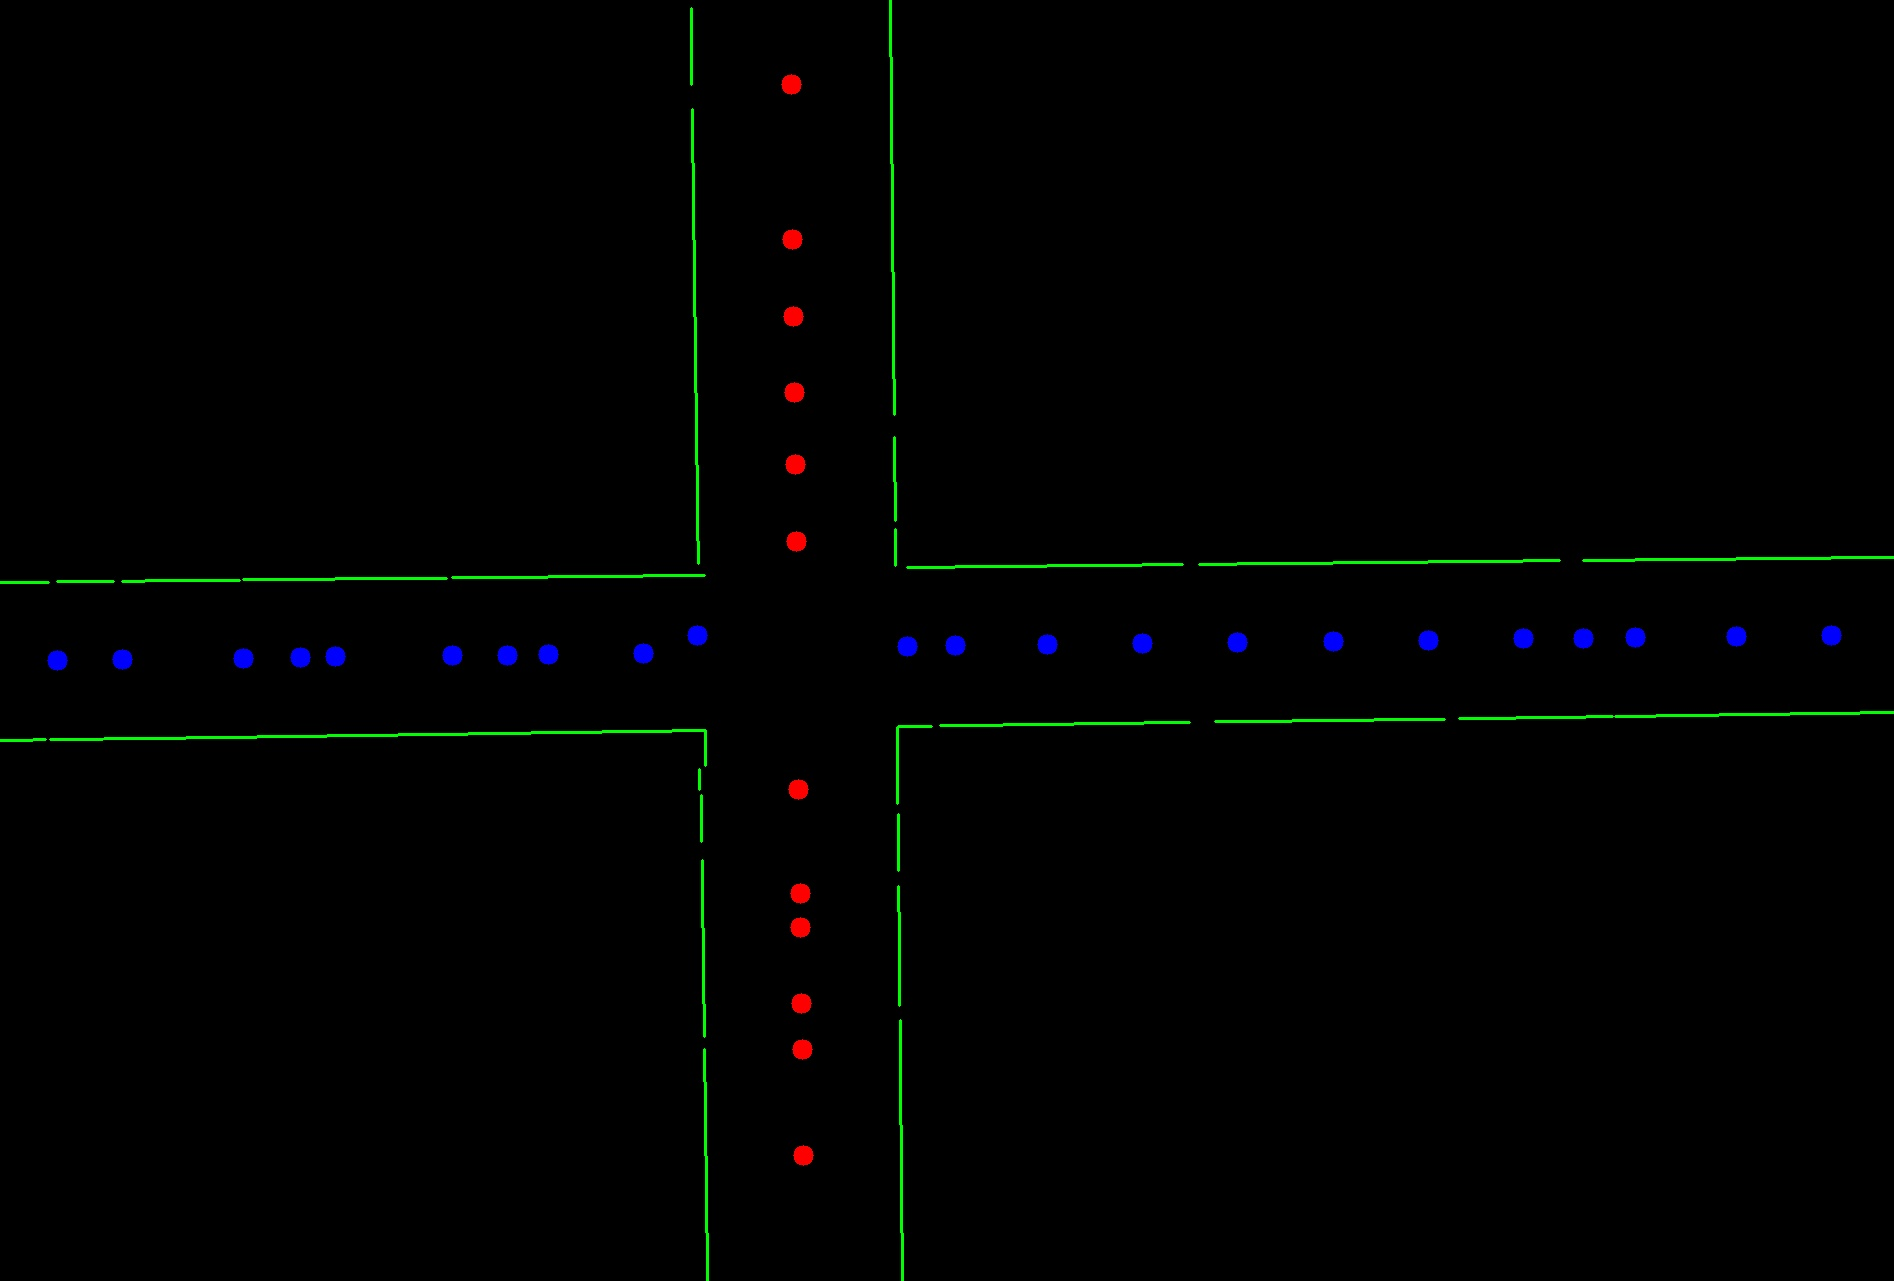
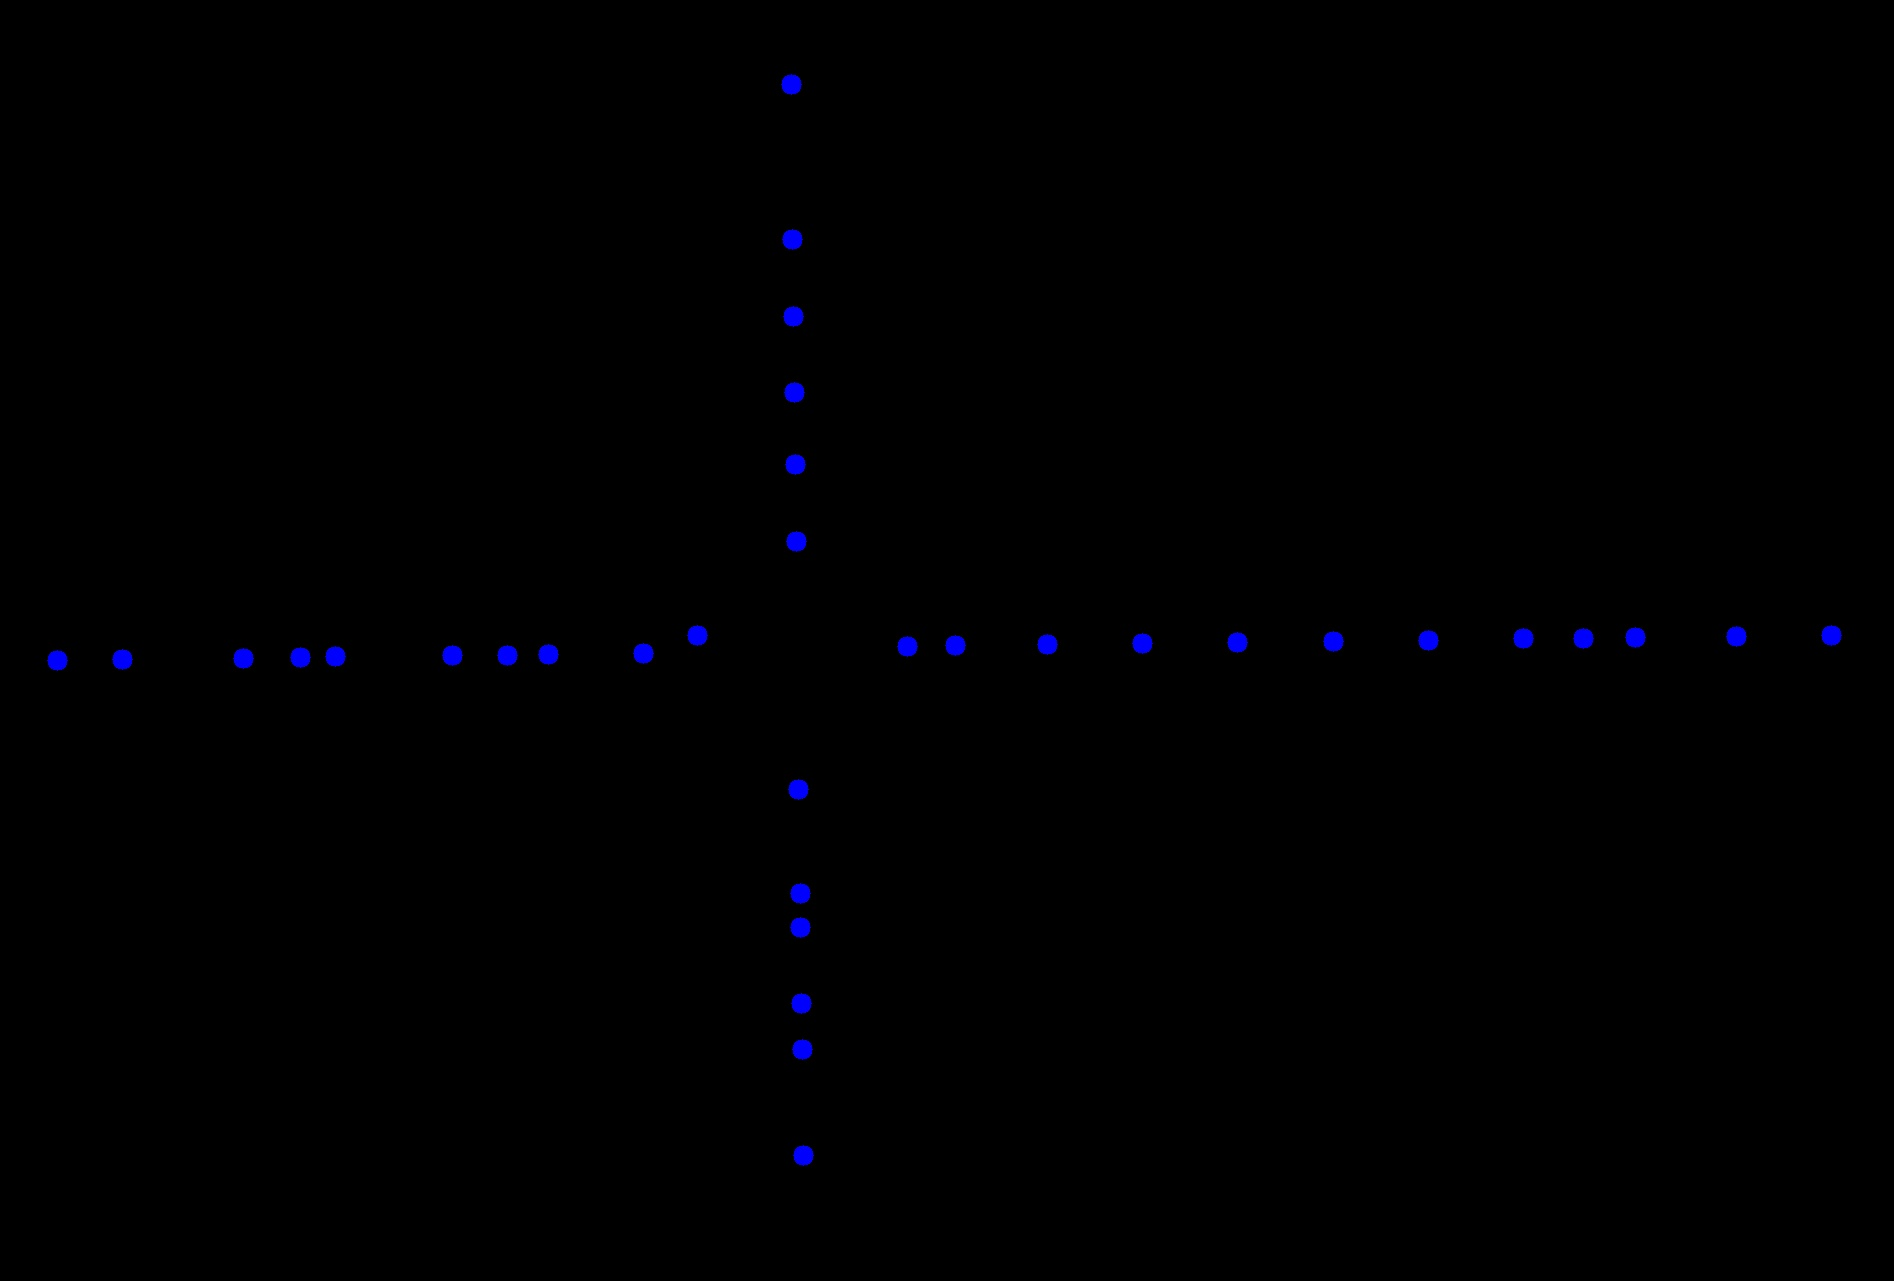
Refactored algorithm

diff --git a/source/linetesting/line.py b/source/linetesting/line.py
@@ -197,11 +197,13 @@ def upAngle(angle):
 
 h,w,c = line_image.shape
 
-def findLinePair():
+def calculateNodes(lines, minDistance, maxDistance, width, height):
+    
     usedLines = []
-    for line in newLines: 
-        closestLine = (10000,100000)
-        for line2 in newLines: 
+    nodes = []
+
+    for line in lines: 
+        for line2 in lines: 
             if line == line2: 
                 continue
 
@@ -211,33 +213,39 @@ def findLinePair():
             anotherLineAngle = convertAngle0To2Pi(anotherLineAngle)
 
             if upAngle(currentLineAngle) and upAngle(anotherLineAngle):
-                cv2.line(line_image,(line[0],line[1]),(line[2],line[3]),(0,255,0),2)
-                inter = intersect((line[0],line[1]),(w,line[1]),(line2[0],line2[1]),(line2[2],line2[3]))
+                
+                inter = intersect((line[0],line[1]),(width,line[1]),(line2[0],line2[1]),(line2[2],line2[3]))
+                
                 if inter and line not in usedLines and line2 not in usedLines:
-                    intersectPoint = line_intersection(((line[0],line[1]),(w,line[1])),((line2[0],line2[1]),(line2[2],line2[3])))
+                    
+                    intersectPoint = line_intersection(((line[0],line[1]),(width,line[1])),((line2[0],line2[1]),(line2[2],line2[3])))
                     intersectLineDistance = intersectPoint[0] - line[0]
-                    #cv2.line(line_image, (line[0], line[1]),intersectPoint,(0,0,255),3)
-                    if intersectLineDistance > 15 and intersectLineDistance < 250: 
+                    
+                    if intersectLineDistance > minDistance and intersectLineDistance < maxDistance: 
+                        
                         usedLines.append(line)
                         usedLines.append(line2)
-                        cv2.circle(line_image, (line[0] + (int(intersectLineDistance / 2)), line[1]), 10, (0,0,255), -1)
+                        nodes.append((line[0] + int(intersectLineDistance / 2), line[1]))
             else: 
-                cv2.line(line_image,(line[0],line[1]),(line[2],line[3]),(0,255,0),2)
-                inter = intersect((line[0],line[1]),(line[0],h),(line2[0],line2[1]),(line2[2],line2[3]))
+                inter = intersect((line[0],line[1]),(line[0],height),(line2[0],line2[1]),(line2[2],line2[3]))
+                
                 if inter and line not in usedLines and line2 not in usedLines:
-                    intersectPoint = line_intersection(((line[0],line[1]),(line[0],h)),((line2[0],line2[1]),(line2[2],line2[3]))) 
+                    
+                    intersectPoint = line_intersection(((line[0],line[1]),(line[0],height)),((line2[0],line2[1]),(line2[2],line2[3]))) 
                     intersectLineDistance = intersectPoint[1] - line[1]
-                    if intersectLineDistance > 15 and intersectLineDistance < 250: 
-                        #cv2.line(line_image, (line[0], line[1]),intersectPoint,(255,0,255),3)
+                    
+                    if intersectLineDistance > minDistance and intersectLineDistance < maxDistance: 
+                        
                         usedLines.append(line)
                         usedLines.append(line2)
-                        cv2.circle(line_image,(line[0],line[1] + (int(intersectLineDistance / 2))),10,(255,0,0),-1)
+                        nodes.append((line[0], line[1] + int(intersectLineDistance / 2)))
+    return nodes
 
-                        print(intersectLineDistance)
-    return False 
+#line = findLinePair()
+nodes = calculateNodes(newLines, 15, 250,w,h)
 
-line = findLinePair()
-
+for node in nodes: 
+    cv2.circle(line_image,node,10,(255,0,0),-1)
 #for points in line:
 #    color = (0,244,0)
 #    cv2.line(line_image,(points[0],points[1]),(points[2],points[3]),color,3)
